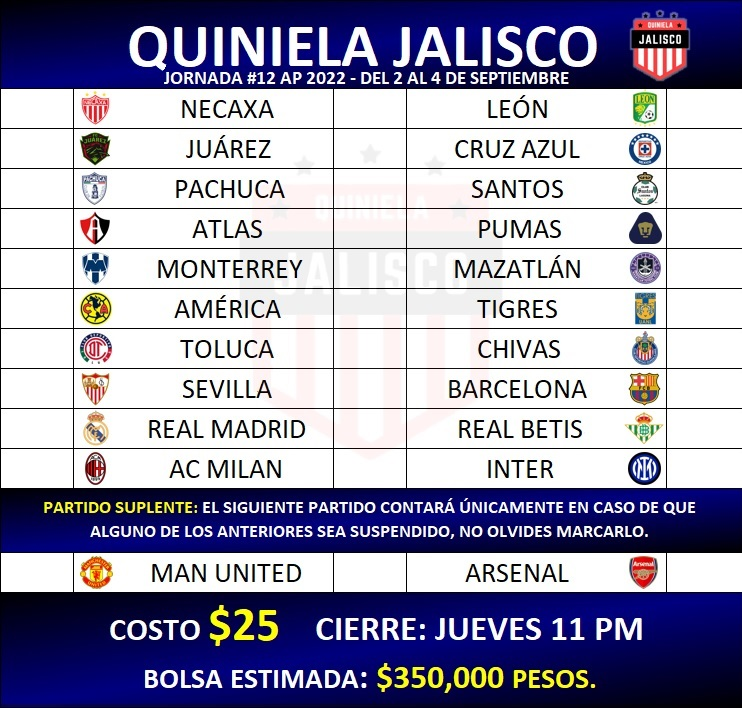
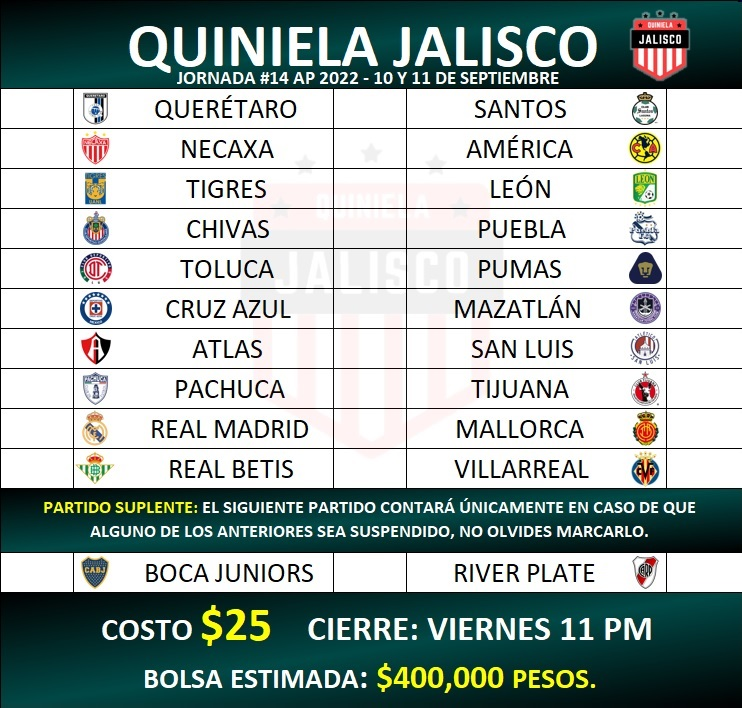
Jornada 14 A22

diff --git a/index.html b/index.html
@@ -6,7 +6,7 @@
     <meta name="viewport" content="width=device-width, initial-scale=1.0, user-scalable=no">
     <meta name="description" content="Quiniela Liga MX - ¡Registra aquí tus quinielas! - Quiniela Jalisco">
     <meta name="keywords" content="Quiniela, Liga MX, Apostar, Pronósticos">
-    <title>Quiniela Liga MX Jornada 12</title>
+    <title>Quiniela Liga MX Jornada 14</title>
     <link href="https://fonts.googleapis.com/css2?family=Roboto&display=swap" rel="stylesheet">
     <link rel="stylesheet" href="https://cdn.jsdelivr.net/npm/bootstrap@5.2.0/dist/css/bootstrap.min.css" crossorigin="anonymous">
     <link href="https://fonts.googleapis.com/icon?family=Material+Icons" rel="stylesheet">

diff --git a/11/styles11.css b/11/styles11.css
@@ -89,12 +89,12 @@ body{
 #text{
     font-weight: bold;
     text-align: center;
-    color: yellow;
+    color: #00ff3b;
     margin-top: 9%;
     border: solid 1px black;
     border-radius: 0 0 14px 14px;
-    background: -webkit-linear-gradient(0.52turn, rgb(0,0,108)  ,rgb(0,0,0) 80%);
-    background: linear-gradient(0.52turn, rgb(0,0,108)  ,rgb(0,0,0) 80%);
+    background: -webkit-linear-gradient(0.74turn, rgb(0,66,64)  ,rgb(0,0,0) 80%);
+    background: linear-gradient(0.74turn, rgb(0,66,64))  ,rgb(0,0,0) 80%);
 }
 
 .text-lg{
@@ -288,7 +288,7 @@ h6{
 }
 
 #cantidad:before{
-    content:'$350,000 pesos ';
+    content:'$400,000 pesos ';
     color: yellow;
     white-space:pre;
 }

diff --git a/MediaSemana/stylesmSusp.css b/MediaSemana/stylesmSusp.css
@@ -93,7 +93,7 @@ body{
     margin-top: 9%;
     border: solid 1px black;
     border-radius: 0 0 14px 14px;
-    background: -webkit-linear-gradient(1turn, rgb(4,27,54)  ,rgb(0,51,103) 80%);
+    background: -webkit-linear-gradient(1turn, rgb(4,27,54)  ,rgb(0,51,10            3) 80%);
     background: linear-gradient(1turn, rgb(4,27,54)  ,rgb(0,51,103) 80%);
 }
 
